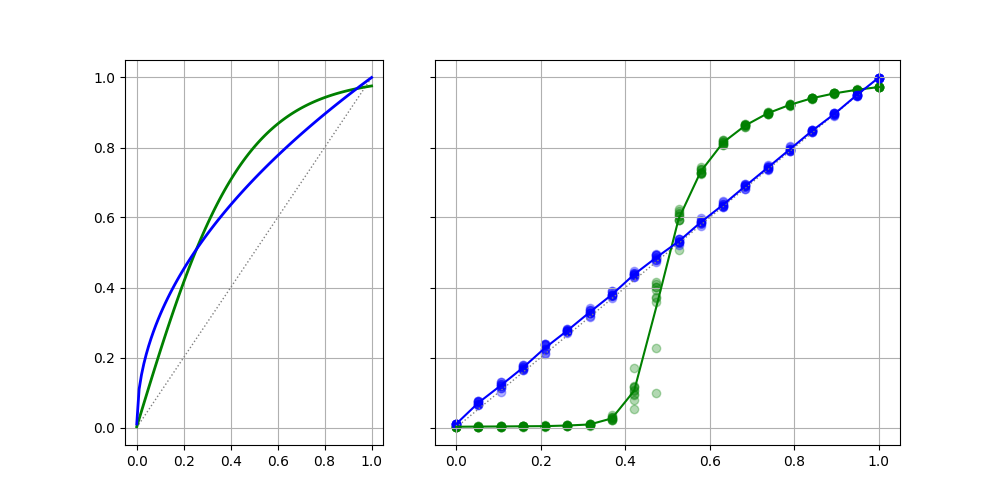
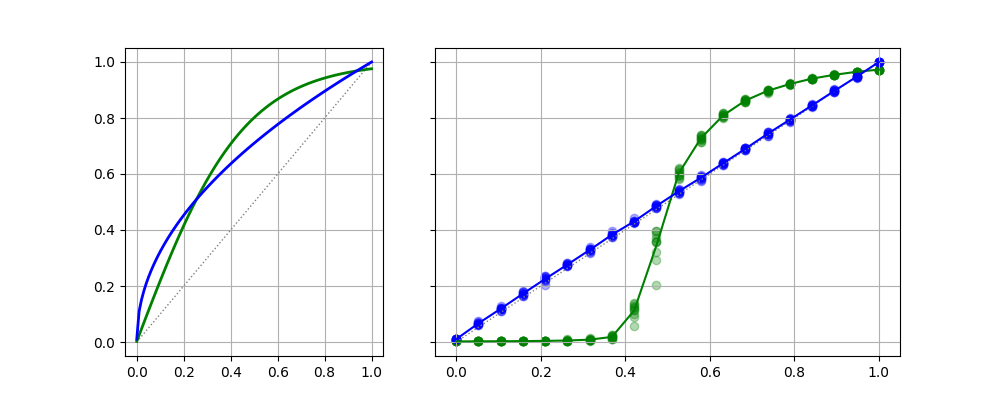
discont lambda and its theta

diff --git a/conn_14_s_x_relation_discont_pf.py b/conn_14_s_x_relation_discont_pf.py
@@ -6,14 +6,14 @@ import multiprocessing
 import matplotlib as mpl
 mpl.use('Agg', warn=False)
 
-trails = 10
+trails = 20
 x_number = 20
 
 
 def seek_fp(x):
     e_l = []
     for i in range(trails):
-        conn = Connection(pf=strengthen_functions.PF12)
+        conn = Connection(pf=strengthen_functions.PF15)
         # the init_strength should be reset with random
         conn.strength = np.random.rand()
         for i in range(100000):
@@ -27,7 +27,7 @@ worker_pool = multiprocessing.Pool(processes=4)
 xs = np.linspace(0, 1, x_number, endpoint=False)
 results_l = [worker_pool.apply_async(seek_fp, (x,)).get() for x in xs]
 
-fig, ax = plt.subplots(1, 1, figsize=(3, 6))
+fig, ax = plt.subplots(1, 1, figsize=(6, 2.5))
 for t in range(trails):
     y = [i[t] for i in results_l]
     ax.plot(xs, y, 'o', color='gray', alpha=.6, zorder=1)
@@ -38,8 +38,8 @@ ax.plot(xs, mean_l, color='red', alpha=1, zorder=2)
 # y = np.array([(5. / (100 - 90 * i)) for i in xs])
 # y = np.array([(1. / (1 + i)) for i in xs])
 # ax.plot(xs, y, color='blue', alpha=1, zorder=3)
-ax.tick_params(labelsize=14)
+ax.tick_params(labelsize=10)
 
-# ax.set_ylim(0, 1)
+ax.set_ylim(0, 1)
 plt.savefig('conn_10_pf15.png')
 # plt.show()

diff --git a/conn_12_pf_of_year.py b/conn_12_pf_of_year.py
@@ -1,11 +1,11 @@
 from __future__ import print_function
+from connection import Connection
+import strengthen_functions
+import numpy as np
+import matplotlib.gridspec as gridspec
+import matplotlib.pyplot as plt
 import matplotlib as mpl
 mpl.use('Agg', warn=False)
-import matplotlib.pyplot as plt
-import matplotlib.gridspec as gridspec
-import numpy as np
-import strengthen_functions
-from connection import Connection
 # import multiprocessing
 
 gs = gridspec.GridSpec(1, 8)
@@ -15,7 +15,7 @@ plt.setp(ax2.get_yticklabels(), visible=False)
 
 fig = ax1.get_figure()
 fig.set_figwidth(10)
-fig.set_figheight(5)
+fig.set_figheight(4)
 # gs.tight_layout(fig, rect=[0, 0, 1, 0.950])
 fig.subplots_adjust(wspace=1)
 
@@ -100,4 +100,3 @@ ax2.plot(xs, mean_l, color='blue', alpha=1, zorder=2)
 
 plt.savefig(figname)
 # plt.show()
-
